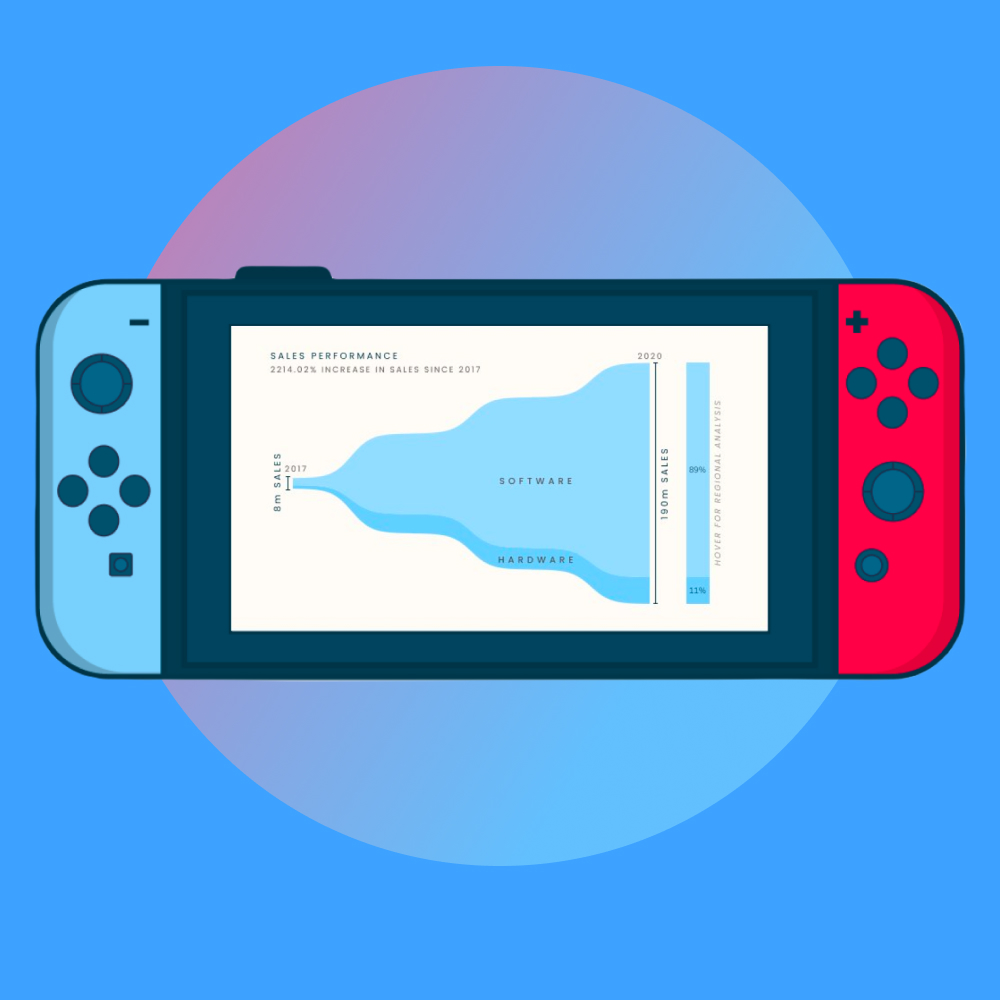
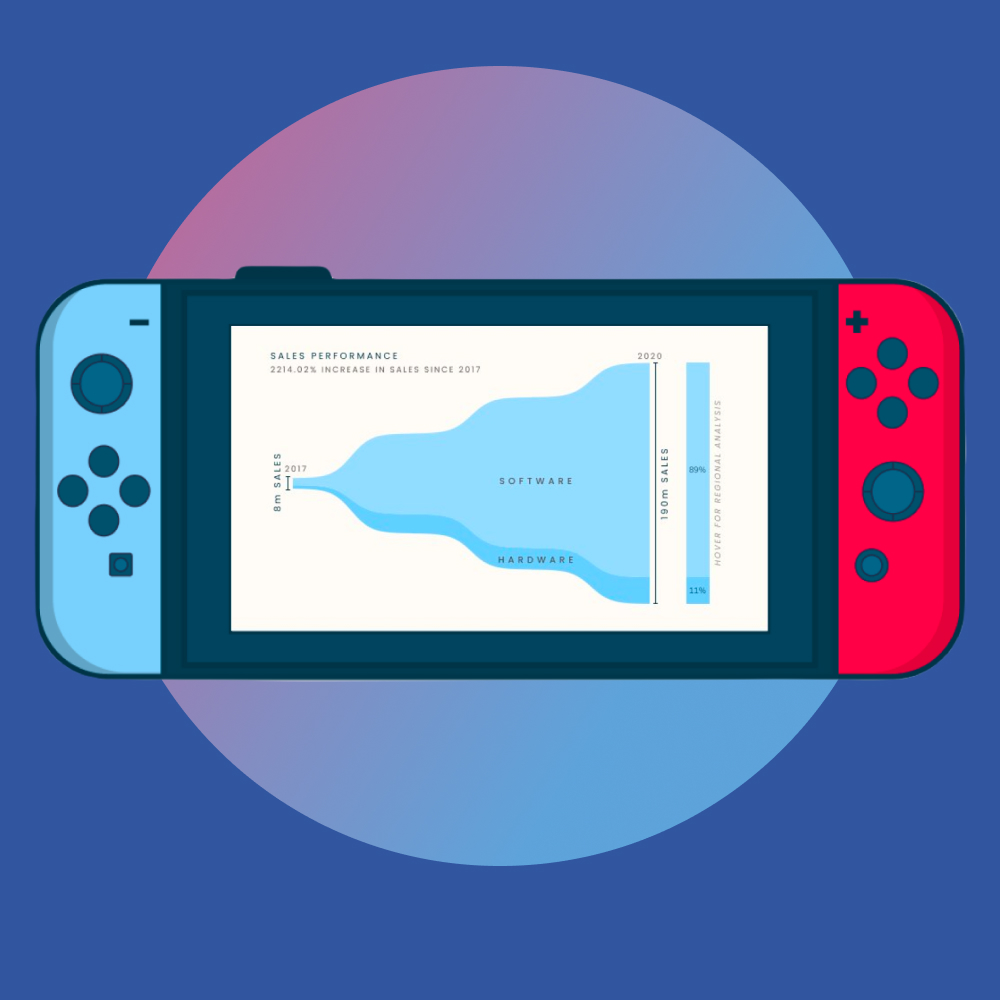
Accessibility changes

diff --git a/index.html b/index.html
@@ -2,6 +2,7 @@
 <html lang="en">
 <head>
     <meta charset="UTF-8">
+    <meta name="description" content="Josh Hughes's portfolio website - a data designer based in the UK who creates modern dashboards, insightful reports and engaging data visualisations.">
     <meta http-equiv="X-UA-Compatible" content="IE=edge">
     <meta name="viewport" content="width=device-width, initial-scale=1.0">
     <link rel="stylesheet" href="css/style.css">
@@ -46,7 +47,7 @@
             <div class="cards-grid">
                 <a href="index.html">
                     <div class="card portfolio">
-                        <div class="card-header portfolio">
+                        <div class="card-header">
                             <div class="card-subheading">
                                 <p>Web</p>
                             </div>
@@ -61,7 +62,7 @@
                 </a>
                 <a href="https://public.tableau.com/profile/josh.hughes#!/vizhome/NintendoSales_16049400122520/NintendoSales">
                     <div class="card nintendo">
-                        <div class="card-header nintendo">
+                        <div class="card-header">
                             <div class="card-subheading">
                                 <p>Data viz</p>
                             </div>
@@ -76,7 +77,7 @@
                 </a>
                 <a href="https://public.tableau.com/profile/josh.hughes#!/vizhome/GlobalWarming_16111798315220/Dashboard1">
                     <div class="card global-warming">
-                        <div class="card-header global-warming">
+                        <div class="card-header">
                             <div class="card-subheading">
                                 <p>Data viz</p>
                             </div>
@@ -91,7 +92,7 @@
                 </a>
                 <a href="https://public.tableau.com/profile/josh.hughes#!/vizhome/SchoolWorkforce/Dashboard1">
                     <div class="card school-workforce">
-                        <div class="card-header school-workforce">
+                        <div class="card-header">
                             <div class="card-subheading">
                                 <p>Data viz</p>
                             </div>

diff --git a/css/style.css b/css/style.css
@@ -215,7 +215,7 @@ nav :checked ~ .burger-layer {
 
 .hero-links p {
     font-size: 0.8rem;
-    color: #8892B0;
+    color: #B9BDD0;
 }
 
 .hero-links a {
@@ -302,11 +302,11 @@ nav :checked ~ .burger-layer {
 }
 
 .nintendo {
-    background-color: #3DA2FF;
+    background-color: #3156A0;
 }
 
 .school-workforce {
-    background-color: #1DA7B1;
+    background-color: #225E77;
 }
 
 .section-title {
@@ -430,7 +430,7 @@ nav :checked ~ .burger-layer {
 }
 
 .job-desc p {
-    font-size: 0.7rem;
+    font-size: 0.8rem;
     line-height: 1.6;
     font-weight: 300;
     color: #b7c1d8;

diff --git a/work.html b/work.html
@@ -2,6 +2,7 @@
 <html lang="en">
 <head>
     <meta charset="UTF-8">
+    <meta name="description" content="A collection of Josh Hughes's data visualisation projects.">
     <meta http-equiv="X-UA-Compatible" content="IE=edge">
     <meta name="viewport" content="width=device-width, initial-scale=1.0">
     <link rel="stylesheet" href="css/style.css">
